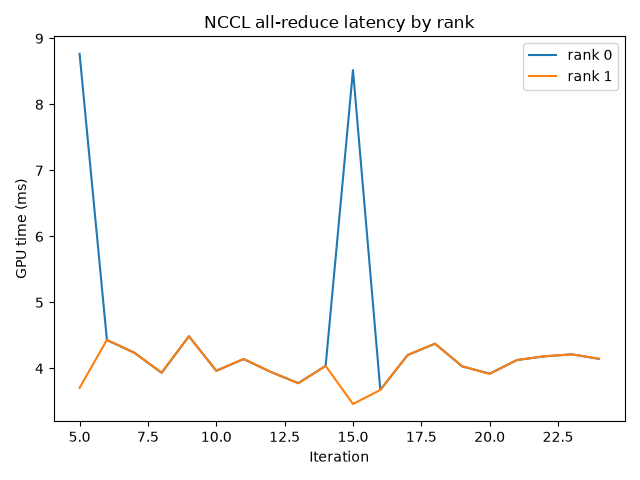
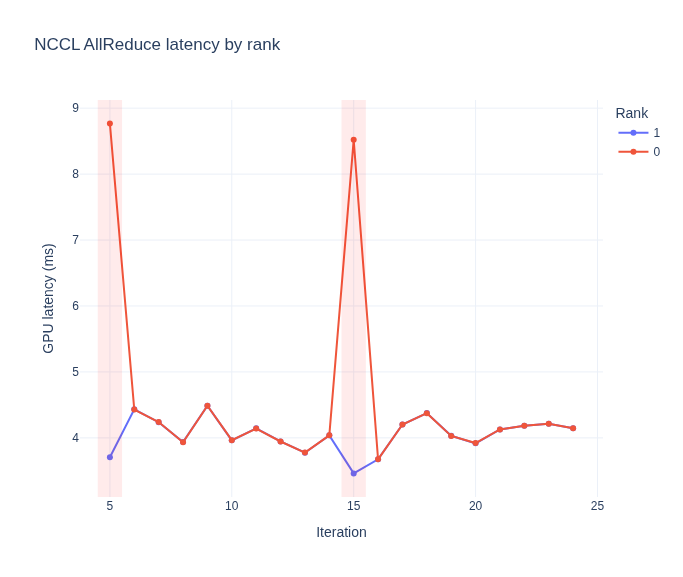
Switch graphs to Plotly: latency over time, latency distribution and heatmap

diff --git a/python/analyze.py b/python/analyze.py
@@ -2,6 +2,7 @@ import json
 import sys
 import pandas as pd
 import matplotlib.pyplot as plt
+import plotly.express as px
 from pathlib import Path
 
 rows = []
@@ -22,13 +23,20 @@ print(f"rows: {len(df)}")
 print(f"ranks: {sorted(df['rank'].unique())}")
 print()
 
+df["median_ms"] = (
+    df.groupby("rank")["gpu_ms"]
+      .transform("median")
+)
+
+df["delta_ms"] = df["gpu_ms"] - df["median_ms"]
+
 for rank, g in df.groupby("rank"):
     print(f"Rank {rank}")
     print(f"  p50: {g['gpu_ms'].quantile(0.50):.3f} ms")
     print(f"  p95: {g['gpu_ms'].quantile(0.95):.3f} ms")
     print(f"  p99: {g['gpu_ms'].quantile(0.99):.3f} ms")
     print(f"  max: {g['gpu_ms'].max():.3f} ms")
-    print()
+    print(f"  max_delta: {g['delta_ms'].max():.3f} ms")
 
 pivot = df.pivot(index="iter", columns="rank", values="gpu_ms")
 pivot["max_ms"] = pivot.max(axis=1)
@@ -41,26 +49,121 @@ print("Latency spikes")
 print("--------------")
 print(f"count: {len(spikes)}")
 
-for iter_id, row in spikes.head(10).iterrows():
-    slow_rank = row.drop(["max_ms", "min_ms", "ratio"]).idxmax()
-    print(
-        f"iter {iter_id}: rank {slow_rank} observed {row['max_ms']:.3f} ms "
-        f"({row['ratio']:.2f}x fastest rank)"
-    )                            
+rank_cols = [c for c in pivot.columns if c not in ["max_ms", "min_ms", "ratio"]]
 
+likely_delayed_counts = {}
+
+"""
+impacted_rank is the rank with the biggest observed latency. likely_delayed_rank is the rank with the smallest observed latency during spike iterations.
+"""
+
+for iter_id, row in spikes.head(10).iterrows():
+    impacted_rank = row[rank_cols].idxmax()
+    likely_delayed_rank = row[rank_cols].idxmin()
+
+    likely_delayed_counts[likely_delayed_rank] = (
+        likely_delayed_counts.get(likely_delayed_rank, 0) + 1
+    )
+
+    print(
+        f"iter {iter_id}: impacted rank {impacted_rank} observed {row['max_ms']:.3f} ms "
+        f"({row['ratio']:.2f}x fastest rank); "
+        f"likely delayed rank {likely_delayed_rank}"
+    )
+
+if likely_delayed_counts:
+    likely_delayed_rank = max(likely_delayed_counts, key=likely_delayed_counts.get)
+
+    print()
+    print("Likely delayed rank")
+    print("-------------------")
+    print(
+        f"rank {likely_delayed_rank} "
+        f"({likely_delayed_counts[likely_delayed_rank]}/{len(spikes.head(10))} inspected spikes)"
+    )
 
 Path("plots").mkdir(exist_ok=True)
 
-plt.figure()
-for rank, g in df.groupby("rank"):
-    plt.plot(g["iter"], g["gpu_ms"], label=f"rank {rank}")
+# 1. Latency over time
+fig = px.line(
+    df,
+    x="iter",
+    y="gpu_ms",
+    color=df["rank"].astype(str),
+    markers=True,
+    title="NCCL AllReduce latency by rank",
+    labels={
+        "iter": "Iteration",
+        "gpu_ms": "GPU latency (ms)",
+        "color": "Rank",
+    },
+)
 
-plt.xlabel("Iteration")
-plt.ylabel("GPU time (ms)")
-plt.title("NCCL all-reduce latency by rank")
-plt.legend()
-plt.tight_layout()
-plt.savefig("plots/latency_by_rank.png")
+fig.update_layout(
+    template="plotly_white",
+    hovermode="x unified",
+    legend_title_text="Rank",
+)
+
+for spike_iter in spikes.index:
+    fig.add_vrect(
+        x0=spike_iter - 0.5,
+        x1=spike_iter + 0.5,
+        fillcolor="red",
+        opacity=0.08,
+        line_width=0,
+    )
+
+fig.write_html("plots/latency_by_rank.html")
+
+
+# 2. Latency distribution by rank
+fig = px.box(
+    df,
+    x=df["rank"].astype(str),
+    y="gpu_ms",
+    points="outliers",
+    title="NCCL latency distribution by rank",
+    labels={
+        "x": "Rank",
+        "gpu_ms": "GPU latency (ms)",
+    },
+)
+
+fig.update_layout(
+    template="plotly_white",
+)
+
+fig.write_html("plots/latency_distribution.html")
+
+
+# 3. Heatmap: rank x iteration
+heatmap = df.pivot(
+    index="rank",
+    columns="iter",
+    values="gpu_ms",
+)
+
+fig = px.imshow(
+    heatmap,
+    aspect="auto",
+    title="NCCL latency heatmap",
+    labels={
+        "x": "Iteration",
+        "y": "Rank",
+        "color": "GPU latency (ms)",
+    },
+)
+
+fig.update_layout(
+    template="plotly_white",
+)
+
+fig.write_html("plots/latency_heatmap.html")
 
 print()
-print("Wrote plot: plots/latency_by_rank.png")
+print("Wrote plots:")
+print("  plots/latency_by_rank.html")
+print("  plots/latency_distribution.html")
+print("  plots/latency_heatmap.html")
+

diff --git a/README.md b/README.md
@@ -10,6 +10,23 @@
 - Synthetic slow-rank injection
 - JSON trace output
 
+## Architecture
+
+```
+CUDA Benchmarks
+      ↓
+JSONL traces
+      ↓
+Python analysis
+      ↓
+Interactive plots
+```
+
+## Example JSONL output
+
+`{"rank":0,"iter":42,"gpu_ms":8.91}`
+
+
 ## Installation
 
 [Best on an instance with at least 2 x GPUs]